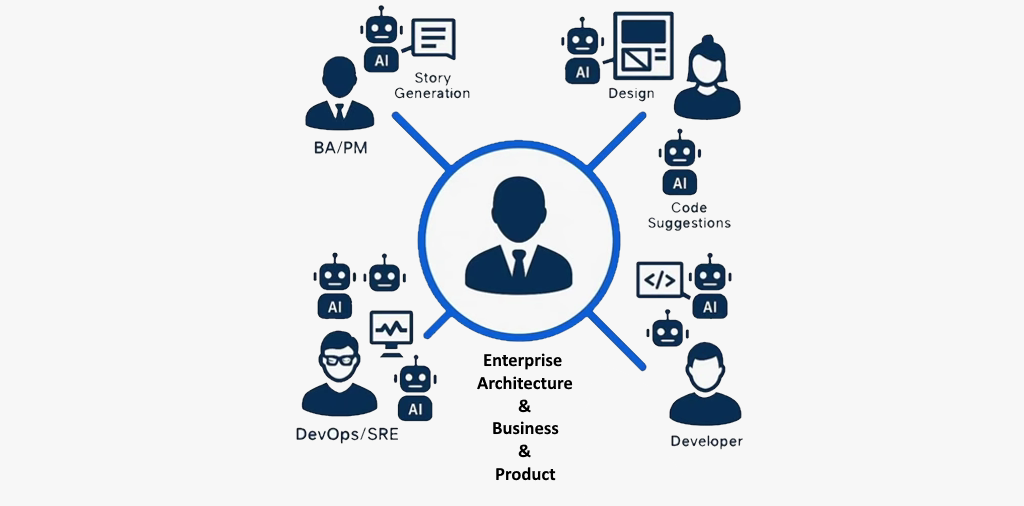
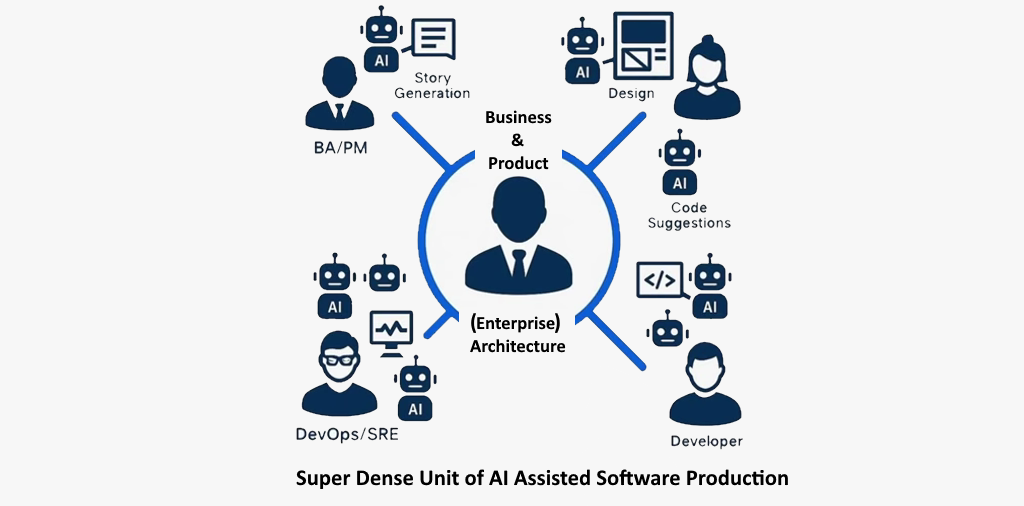
Add grid-style homepage with pinned/featured posts and widen post pages
New layouts/index.html renders a 3-column, 16:9 grid homepage (pinned
hero row, Featured, Posts) toggled via homeGridStyle in hugo.toml,
falling back to PaperMod's standard list layout when off. Posts opt
into the pinned/featured rows via pinned: true / featured: true
frontmatter. Both the grid and single-post pages now use 70vw content
width (15% side margins); posts without a cover image fall back to
static/iceberg-banner-1200x630.jpg.

Also documents the "verify via hugo server" workflow in CLAUDE.md.

diff --git a/layouts/index.html b/layouts/index.html
@@ -1,0 +1,94 @@
+{{- define "main" }}
+
+{{- if not site.Params.homeGridStyle }}
+{{- partial "home_info.html" . }}
+{{- $pages := where site.RegularPages "Type" "in" site.Params.mainSections }}
+{{- $pages = where $pages "Params.hiddenInHomeList" "!=" "true" }}
+{{- $paginator := .Paginate $pages }}
+{{- range $paginator.Pages }}
+<article class="post-entry">
+  {{- $isHidden := (.Param "cover.hiddenInList") | default (.Param "cover.hidden") | default false }}
+  {{- partial "cover.html" (dict "cxt" . "IsSingle" false "isHidden" $isHidden) }}
+  <header class="entry-header">
+    <h2 class="entry-hint-parent">{{ .Title }}</h2>
+  </header>
+  {{- if (ne (.Param "hideSummary") true) }}
+  <div class="entry-content">
+    <p>{{ .Summary | plainify | htmlUnescape }}{{ if .Truncated }}...{{ end }}</p>
+  </div>
+  {{- end }}
+  {{- if not (.Param "hideMeta") }}
+  <footer class="entry-footer">
+    {{- partial "post_meta.html" . -}}
+  </footer>
+  {{- end }}
+  <a class="entry-link" aria-label="post link to {{ .Title | plainify }}" href="{{ .Permalink }}"></a>
+</article>
+{{- end }}
+{{- if gt $paginator.TotalPages 1 }}
+<footer class="page-footer">
+  <nav class="pagination">
+    {{- if $paginator.HasPrev }}
+    <a class="prev" href="{{ $paginator.Prev.URL | absURL }}">&laquo;&nbsp;{{ i18n "prev_page" }}</a>
+    {{- end }}
+    {{- if $paginator.HasNext }}
+    <a class="next" href="{{ $paginator.Next.URL | absURL }}">{{ i18n "next_page" }}&nbsp;&raquo;</a>
+    {{- end }}
+  </nav>
+</footer>
+{{- end }}
+
+{{- else }}{{/* homeGridStyle */}}
+
+<div class="home-grid-wrap">
+
+{{- with site.Params.homeInfoParams.Content }}
+<p class="home-grid-tagline">{{ . | markdownify }}</p>
+{{- end }}
+
+{{- $allPages := where site.RegularPages "Type" "in" site.Params.mainSections }}
+{{- $allPages = where $allPages "Params.hiddenInHomeList" "!=" "true" }}
+
+{{- $pinned := where $allPages "Params.pinned" "eq" true }}
+{{- $pinned = $pinned.ByDate.Reverse | first 1 }}
+
+{{- $pinnedKeys := slice }}
+{{- range $pinned }}{{ $pinnedKeys = $pinnedKeys | append .File.Path }}{{ end }}
+{{- $remaining := where $allPages "File.Path" "not in" $pinnedKeys }}
+
+{{- $featured := where $remaining "Params.featured" "eq" true }}
+{{- $featured = $featured.ByDate.Reverse | first 3 }}
+
+{{- $featuredKeys := slice }}
+{{- range $featured }}{{ $featuredKeys = $featuredKeys | append .File.Path }}{{ end }}
+{{- $rest := where $remaining "File.Path" "not in" $featuredKeys }}
+
+{{- if $pinned }}
+<div class="home-grid home-grid--pinned">
+  {{- range $pinned }}
+  {{- partial "home-grid-cell.html" . }}
+  {{- end }}
+</div>
+{{- end }}
+
+{{- if $featured }}
+<h2 class="home-grid-subtitle">Featured</h2>
+<div class="home-grid">
+  {{- range $featured }}
+  {{- partial "home-grid-cell.html" . }}
+  {{- end }}
+</div>
+{{- end }}
+
+<h2 class="home-grid-subtitle">Posts</h2>
+<div class="home-grid">
+  {{- range $rest.ByDate.Reverse }}
+  {{- partial "home-grid-cell.html" . }}
+  {{- end }}
+</div>
+
+</div>{{/* .home-grid-wrap */}}
+
+{{- end }}{{/* end homeGridStyle */}}
+
+{{- end }}{{- /* end main */ -}}

diff --git a/assets/css/extended/home-grid.css b/assets/css/extended/home-grid.css
@@ -1,0 +1,129 @@
+.home-grid-wrap {
+    width: 70vw;
+    max-width: 70vw;
+    margin-left: 50%;
+    transform: translateX(-50%);
+}
+
+body:not(.list) .main {
+    max-width: 70vw;
+}
+
+.home-grid-tagline {
+    margin: 0 0 1.5rem;
+    color: var(--primary);
+    font-size: 1.5rem;
+}
+
+.home-grid-subtitle {
+    margin: 2rem 0 1rem;
+    font-size: 1.3rem;
+}
+
+.home-grid {
+    display: grid;
+    grid-template-columns: repeat(3, 1fr);
+    gap: 1rem;
+    margin-bottom: 1rem;
+}
+
+.home-grid--pinned {
+    grid-template-columns: 1fr;
+    margin-bottom: 2rem;
+}
+
+.home-grid--pinned .home-grid-thumb {
+    aspect-ratio: 21 / 9;
+}
+
+.home-grid--pinned .home-grid-thumb img {
+    object-fit: contain;
+}
+
+.home-grid--pinned .home-grid-title {
+    font-size: 1.5rem;
+    padding: 1rem 1.2rem 0.4rem;
+}
+
+.home-grid--pinned .home-grid-tags {
+    padding: 0 1.2rem 1rem;
+}
+
+.home-grid-cell {
+    display: flex;
+    flex-direction: column;
+    border: 1px solid var(--border);
+    border-radius: 8px;
+    overflow: hidden;
+    background: var(--entry);
+}
+
+.home-grid-cell-link {
+    display: flex;
+    flex-direction: column;
+    color: var(--primary);
+    text-decoration: none;
+    transition: transform 0.1s ease;
+}
+
+.home-grid-cell-link:hover {
+    transform: translateY(-2px);
+}
+
+.home-grid-thumb {
+    position: relative;
+    width: 100%;
+    aspect-ratio: 16 / 9;
+    overflow: hidden;
+    background: var(--code-bg);
+}
+
+.home-grid-thumb img {
+    position: absolute;
+    inset: 0;
+    width: 100%;
+    height: 100%;
+    object-fit: cover;
+    margin: 0;
+}
+
+.home-grid-title {
+    padding: 0.6rem 0.8rem 0.3rem;
+    font-size: 1rem;
+    font-weight: 600;
+    line-height: 1.3;
+}
+
+.home-grid-tags {
+    padding: 0 0.8rem 0.6rem;
+    display: flex;
+    flex-wrap: wrap;
+    gap: 0.4rem;
+}
+
+.home-grid-tags a {
+    font-size: 0.75rem;
+    color: var(--secondary);
+    background: var(--code-bg);
+    border: 1px solid var(--border);
+    border-radius: 4px;
+    padding: 0.15rem 0.5rem;
+    text-decoration: none;
+}
+
+.home-grid-tags a:hover {
+    color: var(--primary);
+    border-color: var(--primary);
+}
+
+@media (max-width: 768px) {
+    .home-grid {
+        grid-template-columns: repeat(3, 1fr);
+        gap: 0.5rem;
+    }
+
+    .home-grid-title {
+        padding: 0.4rem;
+        font-size: 0.8rem;
+    }
+}

diff --git a/layouts/_partials/home-grid-cell.html b/layouts/_partials/home-grid-cell.html
@@ -1,0 +1,20 @@
+{{- $cover := (.Resources.ByType "image").GetMatch (printf "*%s*" (.Params.cover.image)) }}
+<div class="home-grid-cell">
+  <a class="home-grid-cell-link" href="{{ .Permalink }}">
+    <div class="home-grid-thumb">
+      {{- if $cover }}
+      <img loading="lazy" src="{{ $cover.Permalink }}" alt="{{ .Params.cover.alt | default .Title }}">
+      {{- else if .Params.cover.image }}
+      <img loading="lazy" src="{{ .Params.cover.image | absURL }}" alt="{{ .Params.cover.alt | default .Title }}">
+      {{- else }}
+      <img loading="lazy" src="{{ "iceberg-banner-1200x630.jpg" | absURL }}" alt="{{ .Title }}">
+      {{- end }}
+    </div>
+    <div class="home-grid-title">{{ .Title }}</div>
+  </a>
+  {{- with .Params.tags }}
+  <div class="home-grid-tags">
+    {{- range . }}<a href="{{ "/tags/" | relURL }}{{ . | urlize }}/">{{ . }}</a>{{ end }}
+  </div>
+  {{- end }}
+</div>

diff --git a/content/posts/nodes_of_super_densities/index.md b/content/posts/nodes_of_super_densities/index.md
@@ -9,22 +9,23 @@ cover:
   image: "human_agent_driver.png"
 ---
 
-> Do you prefer the calm and ordered [B-P-T operational model](https://method.dbj.org/onboarding/section-03.html) to "Nodes of Super Density"?
->
-> We do
+Do you prefer the calm and ordered [B-P-T operational model](https://method.dbj.org/onboarding/section-03.html) to "Nodes of Super Density"?
 
-## Nodes of Super Densities
+> We prefer the order of B-P-T
 
-This is how we call this **very dense** new team shape. All to All at once All the time. 
+## Ad-Hoc Challenging Nodes of Super Densities
 
-Is that a sustainable operating model for an organization?
+This is how we call this **very dense** new team shape. All the ad-hoc. Communication pattern is inevitably:  all to all at once all the time.  
 
-- Can organization consist of these "Super Densities" and be successful in the long run? 
-- Who does customer support? 
-- Who are the customers? 
-- Where are the customers?
-- Who or what does the maintenance?
+AI or not AI. Is that a sustainable operating model for an organization?
 
+- Can organization consist of these "Super Dense Clumps" and be successful in the long run? 
+- How customer does understand those "clumps"? 
+- How the "C room" does follow? 
+- How does this map to infrastructure?
+- Who or what does the maintenance stage?
+
+We might be wrong.
 
 > Is chaos just a calm landscape from another point of view?
 

diff --git a/content/posts/platos-cave/index.md b/content/posts/platos-cave/index.md
@@ -5,10 +5,12 @@ description: "Plato's allegory reframed: the shadows on the wall are your legacy
 tags: ["enterprise-architecture", "technical-debt", "legacy"]
 author: "Dusan B. Jovanovic"
 draft: false
+cover:
+  image: "iceberg-banner-1200x630.jpg"
 ---
-
-<img src="/the_dark_bottom_dbj.png" alt="" width="75%" />
 
 Socrates then supposes that the prisoners are released. A freed prisoner would look around and see the fire. The light would hurt his eyes and make it difficult for him to see the objects casting the shadows. If he were told that what he is seeing is real instead of the other version of reality he sees on the wall of Technical Debt, he would not believe it. In his pain, Socrates continues, the freed prisoner would turn away and run back to what he is accustomed to (that is, the shadows of the carried objects of Technical Debt). The light "... would hurt his eyes, and he would escape by turning away to the things which he was able to look at, and these he would believe to be clearer than what was being shown to him."
 
 *Transformed from [Allegory of the Cave — Wikipedia](https://en.wikipedia.org/wiki/Allegory_of_the_cave)*
+
+<img src="/the_dark_bottom_dbj.png" alt="" width="55%" />

diff --git a/CLAUDE.md b/CLAUDE.md
@@ -28,6 +28,7 @@ Not an advisory role — that is DEV's domain.
 - **Page bundles:** every post is `content/posts/post-name/index.md` with images local to that folder
 - **Search page:** `content/search.md` — do not remove, PaperMod requires it
 - **Build:** `hugo --minify` — always use Extended variant (required for PaperMod SCSS)
+- **Local verification:** before calling any layout/CSS/template change done, run `hugo server --minify` and check it at `http://localhost:1313/` (or whatever port it binds). Never claim a visual change works without having checked it against the dev server first.
 
 ## Post Frontmatter
 

diff --git a/content/posts/in-the-era-of-ai-slop/index.md b/content/posts/in-the-era-of-ai-slop/index.md
@@ -1,5 +1,5 @@
 ---
-title: "In the Era of AI Slop"
+title: "Remember the Unicorn?"
 date: 2026-06-09
 description: "AI slop doesn't kill quality work. It makes it invisible. That's worse."
 tags: ["AI", "content", "quality"]
@@ -10,7 +10,7 @@ cover:
 
 The unicorn is still there. Exactly where it always was.
 
-But. Nobody is looking.
+But. Nobody is looking. Under the avalanche of AI Slop
 
 A goat walked to the side of the moat and it's fine up there — visible, unremarkable, good enough. The goat didn't defeat the unicorn. It is just vibed up in greater numbers, at lower cost, faster than anyone could count.
 

diff --git a/static/readme.md b/static/readme.md
@@ -1,7 +1,7 @@
 # static/ folder contents
 
 dbj-org-logo.jpg           — square logo, used as OG image for chat link previews
-icberg-banner-1200x630.jpg — wide banner (1200×630), reserved for future use on platforms like LinkedIn/Twitter
+iceberg-banner-1200x630.jpg — wide banner (1200×630); default homepage-grid cover for posts without their own cover image
 the_dark_bottom_dbj.png    — decorative header image used in several posts
 CNAME                      — GitHub Pages custom domain (do not delete)
 favicon/                   — favicon files generated via realfavicongenerator.net

diff --git a/content/posts/not_zachman/index.md b/content/posts/not_zachman/index.md
@@ -1,5 +1,5 @@
 ---
-title: "Resemblance Is Not Lineage"
+title: "Important: Resemblance Is Not Lineage"
 date: 2026-07-18
 draft: false
 description: "Someone claimed DBJ Taxonomy maps to Zachman's layers. It doesn't"
@@ -7,6 +7,7 @@ tags: ["DBJ", "Taxonomy", "Zachman", "TOGAF"]
 author: "Dusan B. Jovanovic"
 cover:
   image: "some_shape_different_origin.png"
+featured: true
 ---
 
 Someone described [DBJ Taxonomy](#taxonomy) this way: *"a taxonomy that maps to [Zachman](#zachman)-style layers (Strategic/Conceptual → Logical → Physical → Implementations)."*

diff --git a/content/posts/superplane/index.md b/content/posts/superplane/index.md
@@ -6,6 +6,8 @@ tags: ["platform engineering", "open source", "AI", "DevOps"]
 author: "Dusan B. Jovanovic"
 cover:
   image: "superplane_over_the_glue_abyss.png"
+featured: true
+pinned: true
 ---
 
 An open-source event-driven control plane for platform engineering — and what it gets right about operational workflows.

diff --git a/content/posts/BPT_Birth_In_One_Image/index.md b/content/posts/BPT_Birth_In_One_Image/index.md
@@ -4,6 +4,7 @@ date: 2026-06-21
 description: "Every executive nods along to AI buzzwords. Few ask what they mean. BPT is born so that the nodding stops."
 tags: ["BPT", "AI", "DBJ Method", "Operational Model"]
 author: "Dusan B. Jovanovic"
+featured: true
 cover:
   image: "bpt-birth-in-one-image.png"
 ---

diff --git a/content/posts/language-layer-does-not-matter/index.md b/content/posts/language-layer-does-not-matter/index.md
@@ -5,6 +5,8 @@ description: "On llama.cpp, inference engines, and why the host language is irre
 tags: ["software-engineering", "AI", "C", "systems"]
 author: "Dusan B. Jovanovic"
 draft: false
+cover:
+  image: "iceberg-banner-1200x630.jpg"
 ---
 
 <img src="/the_dark_bottom_dbj.png" alt="" width="75%" />
